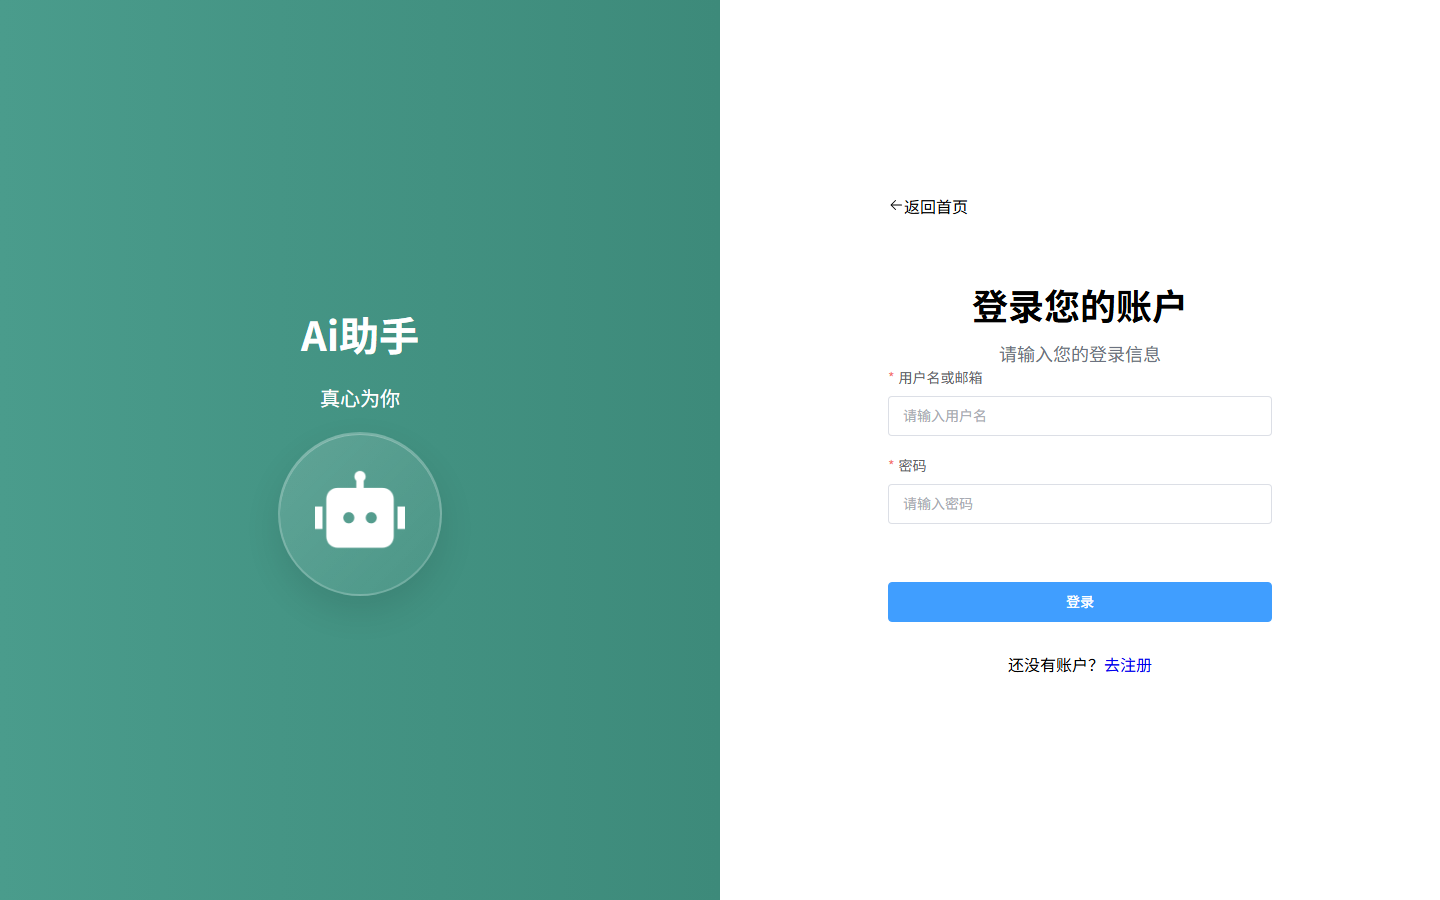
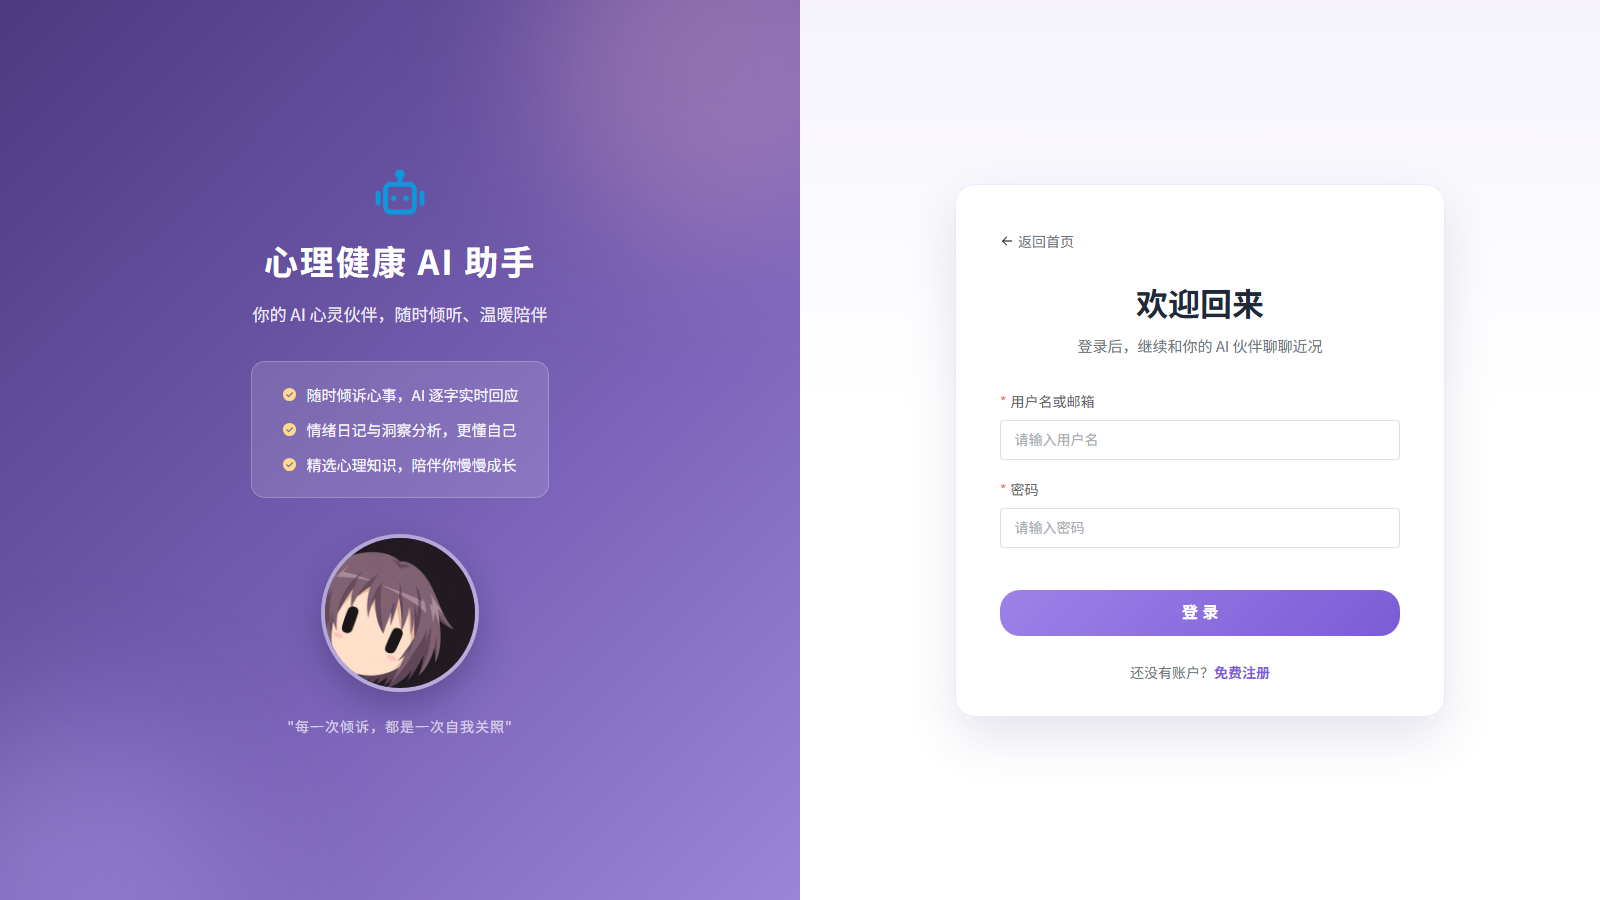
feat: 统一导航与知识页主题配色，更新界面预览截图
- 导航栏注册按钮与知识库页头横幅改为紫色渐变，消除配色残留
- 重拍首页/登录页/AI咨询页/知识库页四张截图，同步最新界面

diff --git a/code/ai-vue/src/views/frontendKnowledge.vue b/code/ai-vue/src/views/frontendKnowledge.vue
@@ -156,7 +156,7 @@ onMounted(() => {
     }
 
     .header-section {
-        background: linear-gradient(135deg, #f59e0b 0%, #8b5cf6 100%);
+        background: linear-gradient(135deg, #4c3a80 0%, #8a6fd8 100%);
         color: white;
         padding: 48px;
 
@@ -198,7 +198,7 @@ onMounted(() => {
                 gap: 1rem;
 
                 .recommend-item {
-                    border-left: 4px solid #f59e0b;
+                    border-left: 4px solid #8a6fd8;
                     padding-left: 10px;
                     cursor: pointer;
 

diff --git a/code/ai-vue/src/components/FrontendLayout.vue b/code/ai-vue/src/components/FrontendLayout.vue
@@ -94,6 +94,15 @@ onMounted(() => {
                     color: #7c5cd6;
                 }
             }
+
+            :deep(.el-button--primary) {
+                background: linear-gradient(135deg, #9d82e8 0%, #7c5cd6 100%);
+                border: none;
+
+                &:hover {
+                    background: linear-gradient(135deg, #ab93ec 0%, #8a6cde 100%);
+                }
+            }
         }
     }
 
